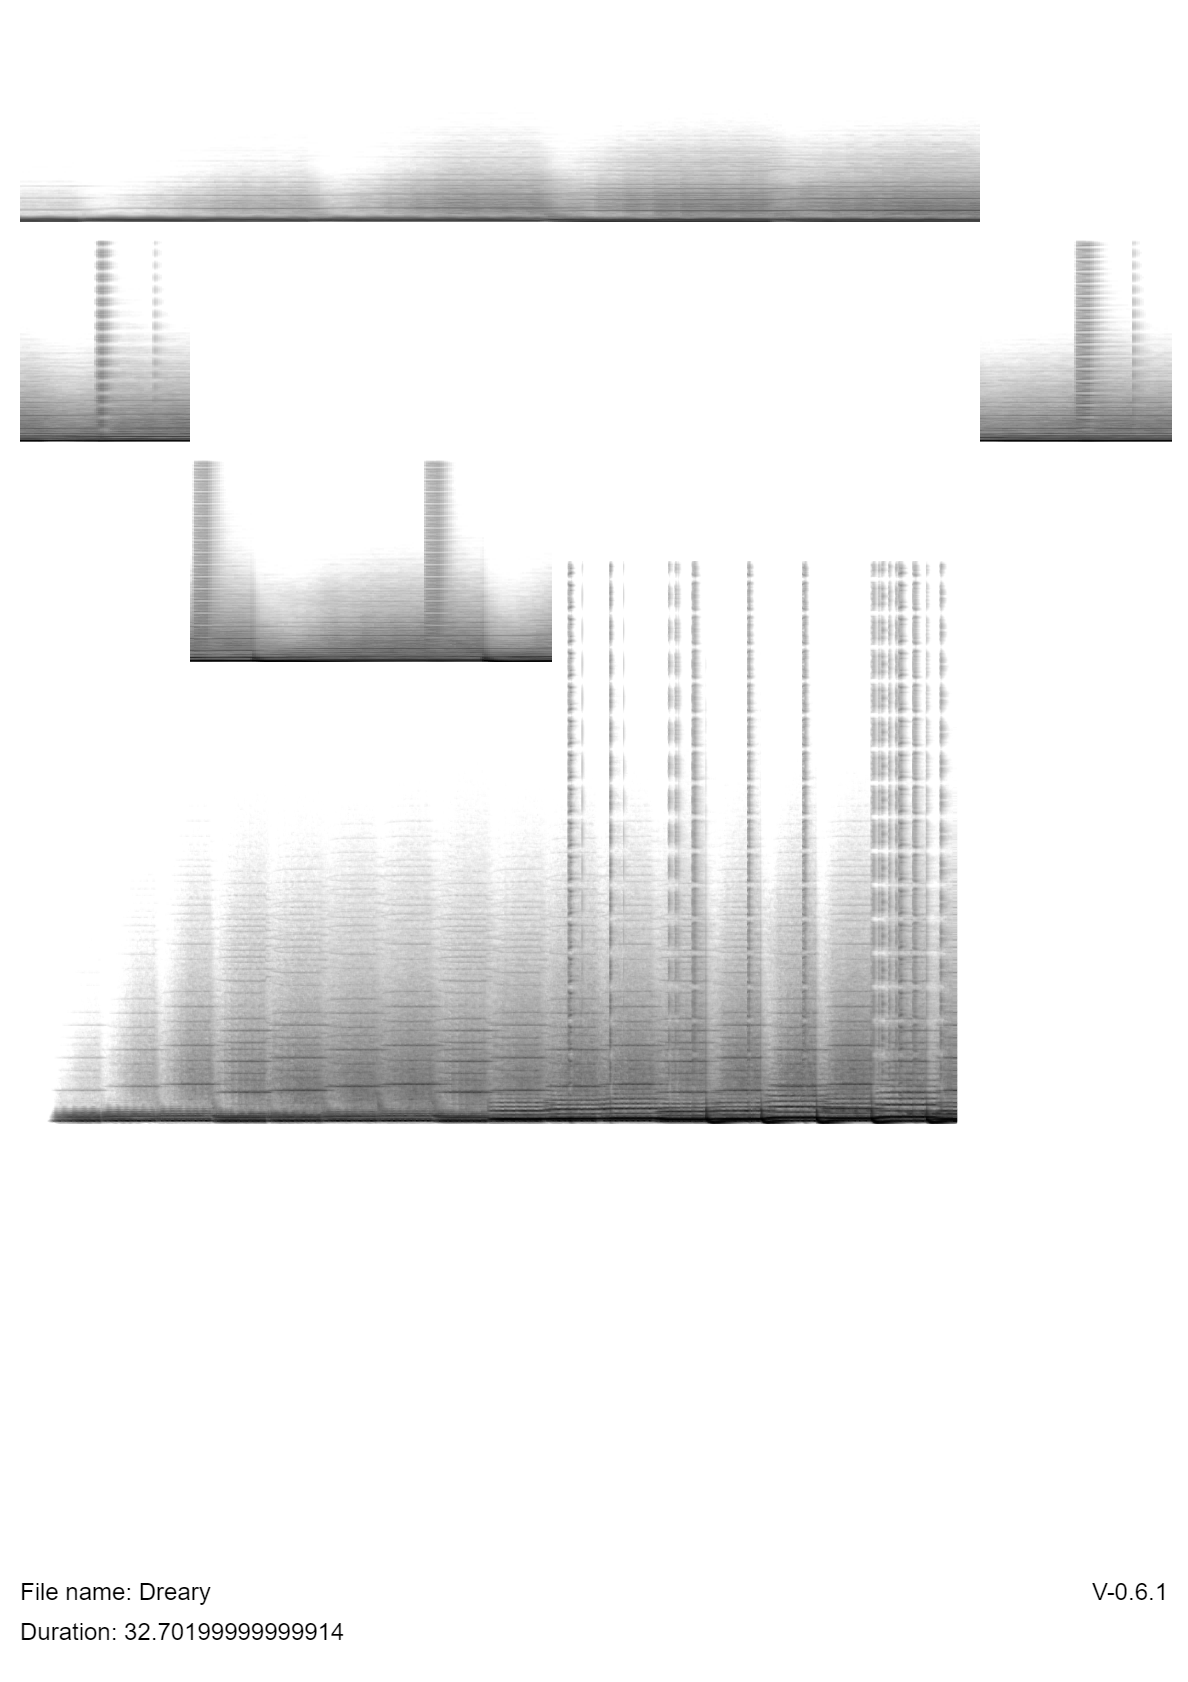
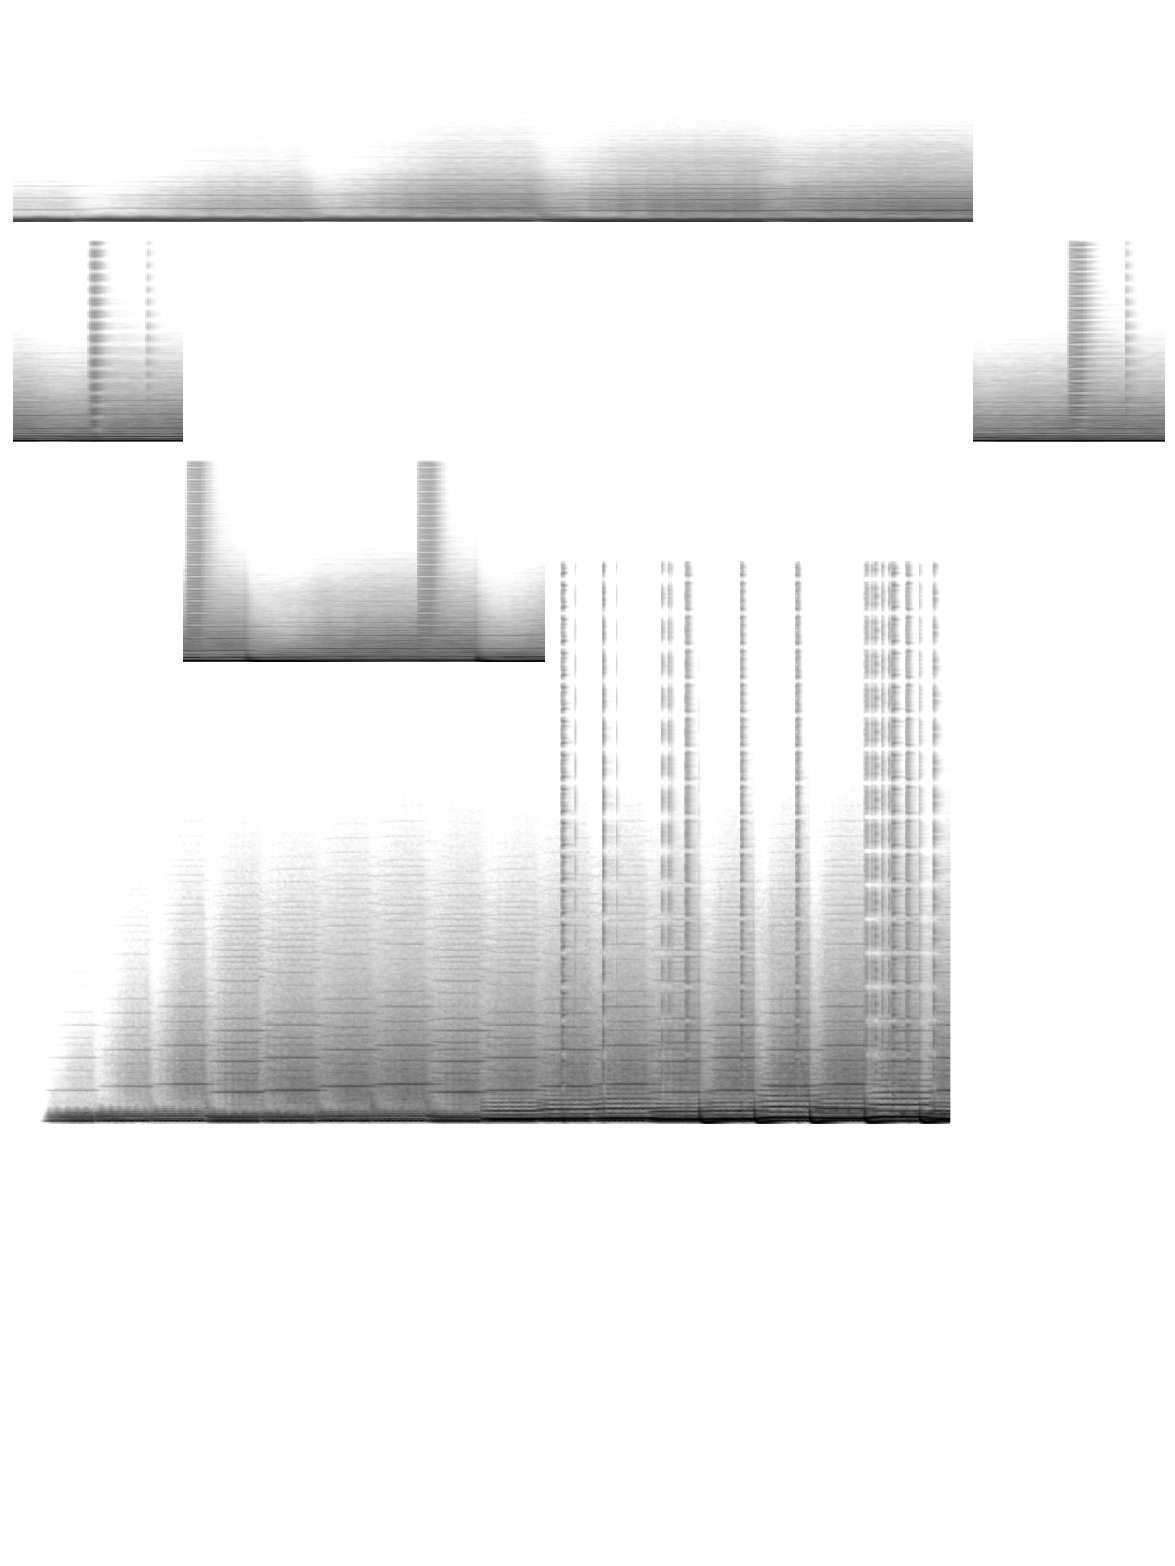
added art page

diff --git a/styles_Artworks.css b/styles_Artworks.css
@@ -1,36 +1,54 @@
 /* posittion images */
 
+.center {
+    margin-left: auto;
+    margin-right: auto;
+}
+
 #image_1 {
     grid-area: 2/2 / span 4 / span 1; 
     margin-top: 18px;
-    margin-left: auto;
-    margin-right: auto;
     /* direction: ltr; */
     /* background-color: aqua; */
 }
 
 #image_2 {
     grid-area: 5/3 / span 4 / span 1;
-    margin-left: auto;
-    margin-right: auto;
 }
 
 #image_3 {
     grid-area: 11/1 / span 4 / span 1;
-    margin-left: auto;
-    margin-right: auto;
 }
 
 #image_4 {
     grid-area: 7/1 / span 3 / span 2;
-    margin-left: auto;
-    margin-right: auto;
 }
 
 #image_5 {
     grid-area: 11/2 / span 3 / span 2;
-    margin-left: auto;
-    margin-right: auto;
+}
+
+#image_6 {
+    grid-area: 15/2 /span 3 / span 2;
+}
+
+#image_7 {
+    grid-area: 19/1 /span 4 / span 2;
+    margin-left: 70px;
+}
+
+#image_8 {
+    grid-area: 23/2 /span 5 / span 2;    
+    direction: rtl;
+    margin-right: 40px;
+}
+
+#image_9 {
+    grid-area: 24/1 /span 3 / span 2;
+}
+
+#spacer {
+    grid-area: 28/1 / span 1 / span 3;
 }
 
 @media screen and (max-width: 940px) {
@@ -47,7 +65,52 @@
       line-height: 18vw;
     }
 
+    .project_description {
+      grid-area: 5/1 / span 2 / span 3;
+    }
+
     #image_1 {
-        grid-area:  99/1 / span 5 / span 1;
+        grid-area: 7/1 / span 9 / span 1; 
+        margin-left: auto;
+        margin-right: auto;
+    }
+
+    #image_2 {
+        grid-area: 25/1 / span 9 / span 1;
+    }
+
+    #image_3 {
+        grid-area: 42/1 / span 9 / span 1;
+    }
+
+    #image_4 {
+        grid-area: 18/1 / span 6 / span 1;
+    }
+
+    #image_5 {
+        grid-area: 35/1 / span 6 / span 1;
+    }
+
+    #image_6 {
+        grid-area: 52/1 /span 5 / span 1;
+    }
+
+    #image_7 {
+        grid-area: 65/1 /span 5 / span 1;
+        margin-left: 0px;
+    }
+
+    #image_8 {
+        grid-area: 73/1 /span 10 / span 1;    
+        margin-left: auto;
+        margin-right: auto;
+    }
+
+    #image_9 {
+        grid-area: 58/1 /span 6 / span 1;
+    }
+
+    #spacer {
+        grid-area: 84/1 / span 1 / span 3;
     }
 }

diff --git a/Artworks.html b/Artworks.html
@@ -25,26 +25,44 @@
             </div>
 
             <div id="image_1">
-                <img src="Artworks/FM-Madona_Smile.png">
+                <img class="center" src="Artworks/FM-Madona_Smile.png">
             </div>
 
-            <div id="image_2">
+            <div class="center" id="image_2">
                 <img src="Artworks/FM-looking_outward.png">
             </div>
 
-            <div id="image_3">
+            <div class="center" id="image_3">
                 <img src="Artworks/FM-Feather_In_His_Cap.png">
             </div>
 
-            <div id="image_4">
+            <div class="center" id="image_4">
                 <img src="Artworks/Dot Wave_1.png">
             </div>
 
-            <div id="image_5">
+            <div class="center" id="image_5">
                 <img src="Artworks/Dot Wave_6.png">
             </div>
 
+            <div class="center" id="image_6">
+                <img src="Artworks/IM_5.png">
+            </div>
 
+            <div class="center" id="image_7">
+                <img src="Artworks/AWOL_Red.png">
+            </div>
+
+            <div id="image_8">
+                <img src="Artworks/TimeMachine_8.png">
+            </div>
+
+            <div class="center" id="image_9">
+                <img src="Artworks/IM_3.png">
+            </div>
+
+            <div id="spacer">
+                <!-- spacer -->
+            </div>
 
         </div>
     </div>

diff --git a/Code_Work.html b/Code_Work.html
@@ -60,6 +60,10 @@
                 <img class="imgFill" src="Code_Work/Time_Delay/TD_thumbnail.png">
             </div>
 
+            <div style="grid-area: 8/1 / span 1 / span 3;">
+                <!-- spacer -->
+            </div>
+
         </div>
     </div>
     
